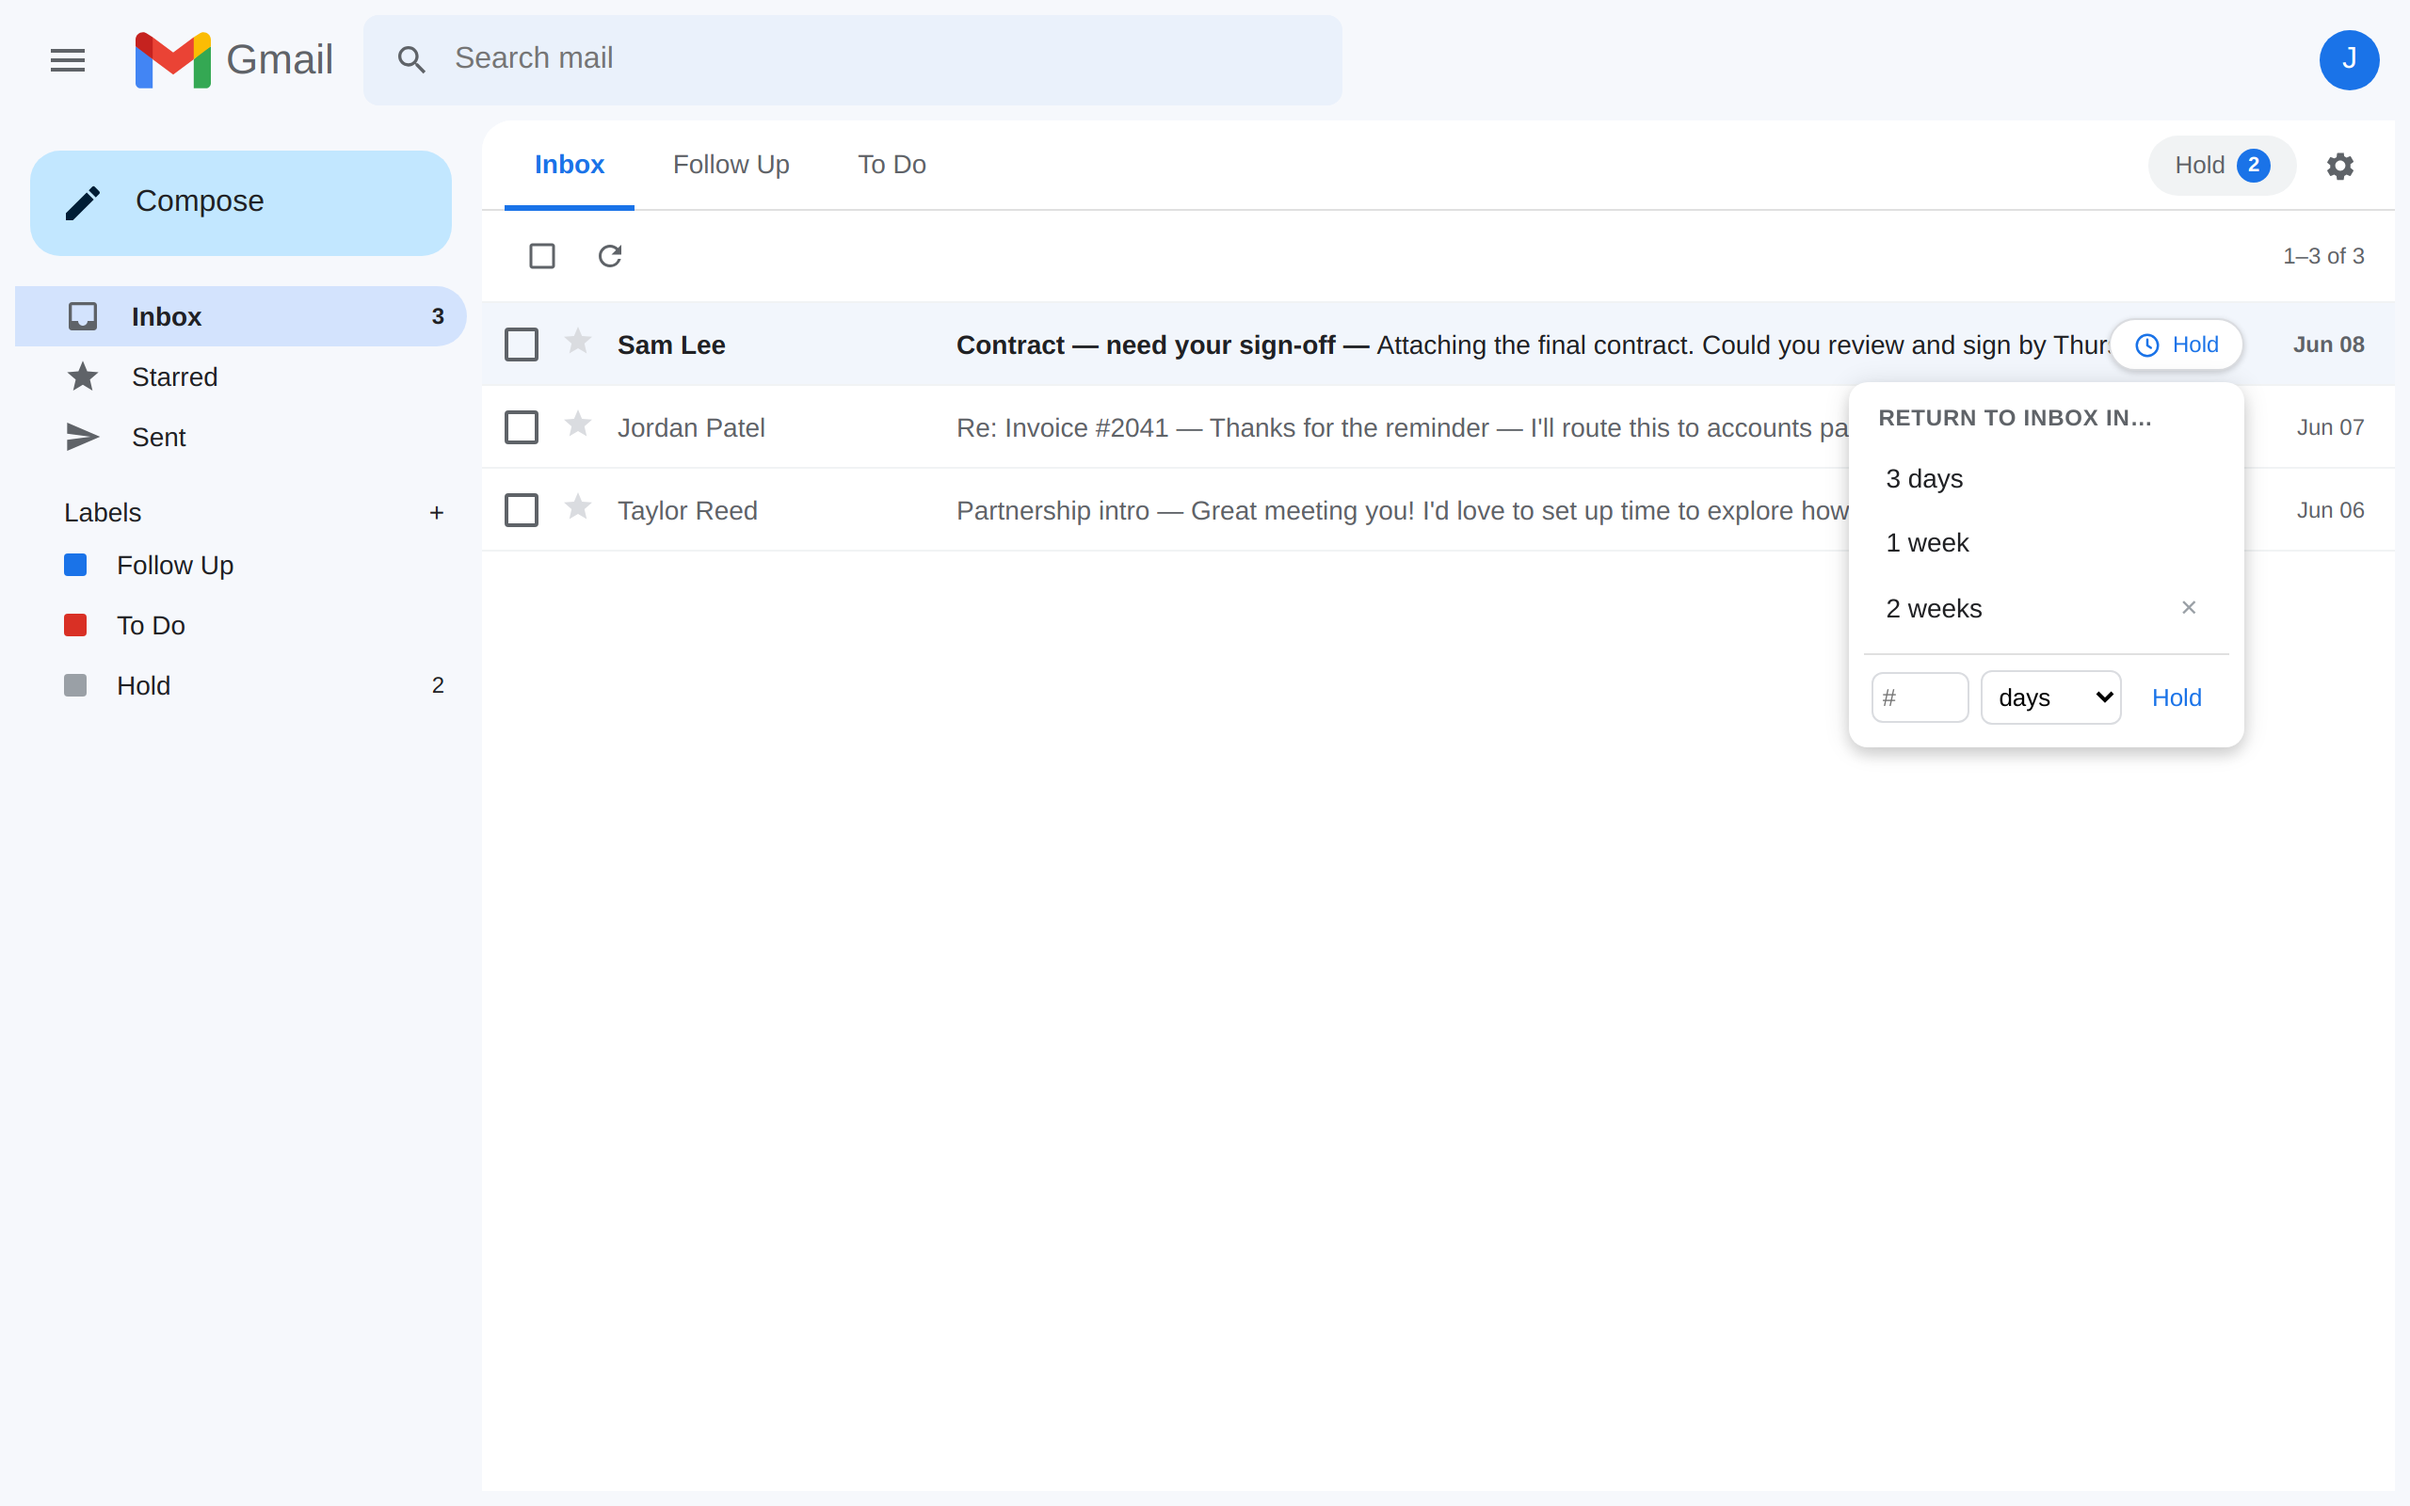
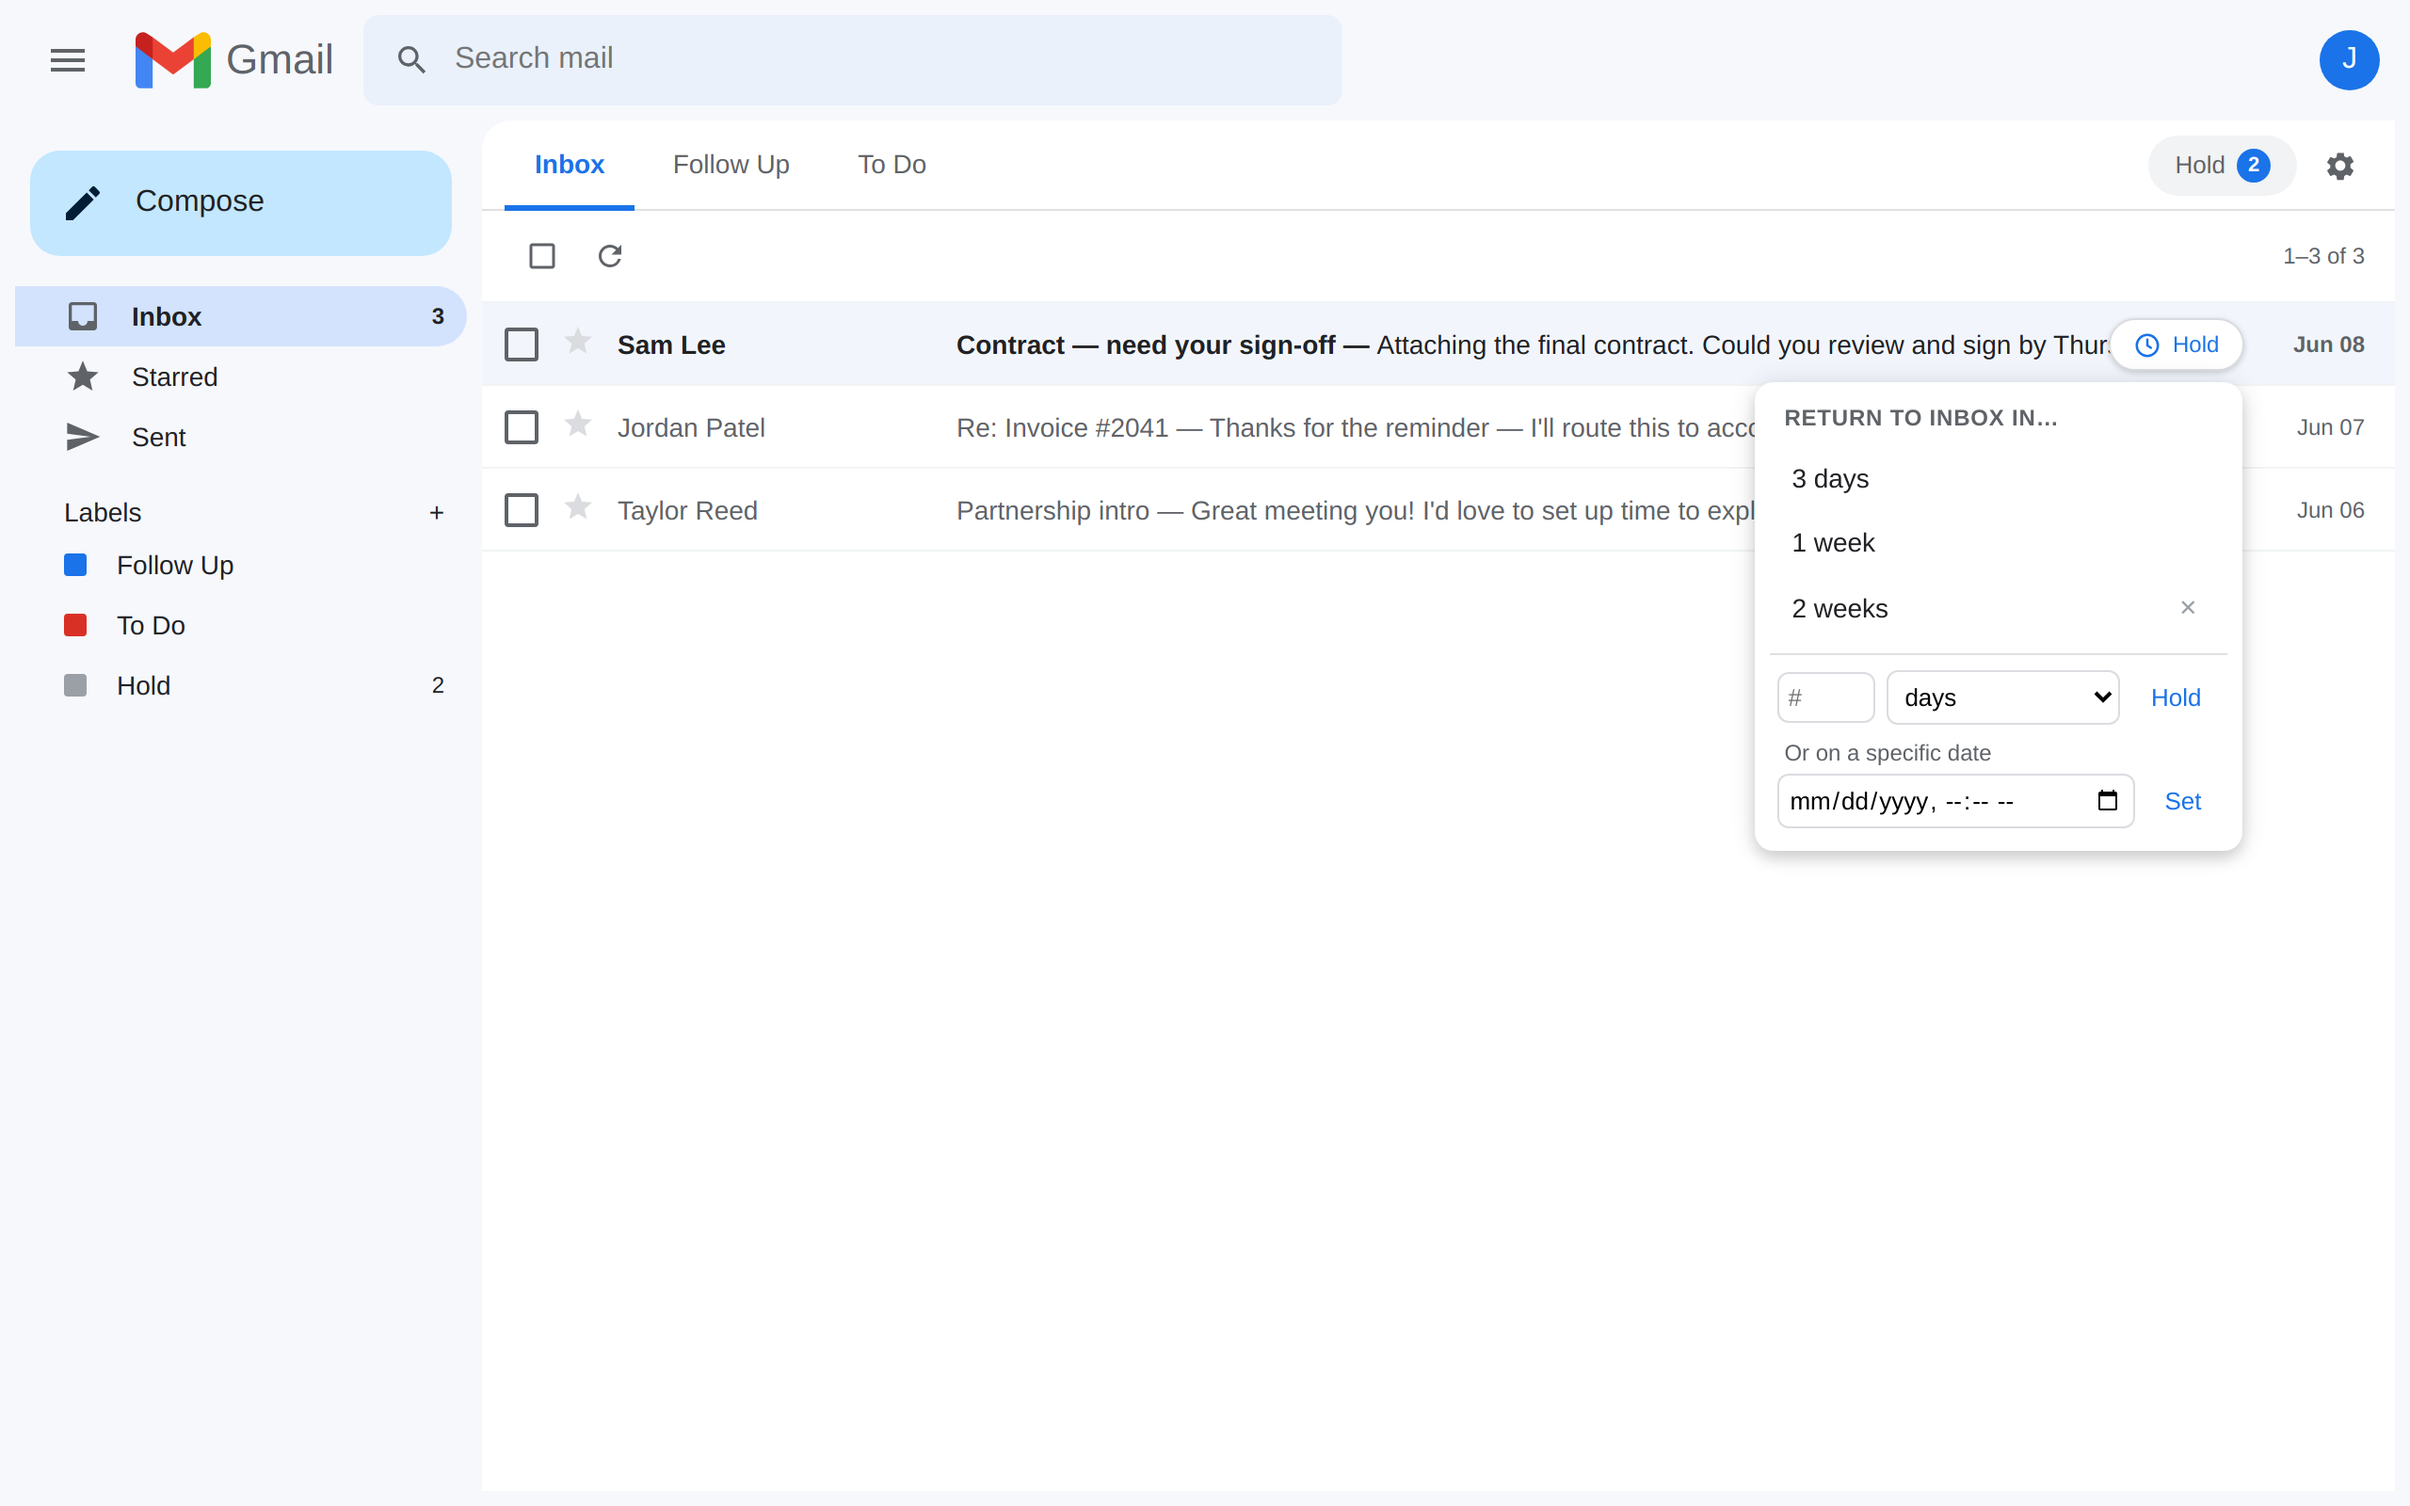
Add a specific date/time option to the Hold picker
Held until an exact calendar moment via a datetime-local input; absolute
dates aren't cached as reusable buttons. Update mockup + preview.

Changed region(s): [[0.7188, 0.4375, 0.9375, 0.5938], [0.7188, 0.25, 0.875, 0.4375]]

diff --git a/mockup.html b/mockup.html
@@ -77,6 +77,9 @@
     .glt-pop-unit { flex: 1; min-width: 0; font-size: 13px; padding: 5px; border: 1px solid #dadce0; border-radius: 6px; background: #fff; }
     .glt-pop-cgo { background: transparent; border: none; cursor: pointer; font-size: 13px; font-weight: 500; color: #1a73e8; padding: 5px 10px; border-radius: 6px; font-family: inherit; }
     .glt-pop-cgo:hover { background: #e8f0fe; }
+    .glt-pop-sub { margin: 4px 8px 2px; font-size: 12px; color: #5f6368; }
+    .glt-pop-date { display: flex; align-items: center; gap: 6px; padding: 2px 4px 4px; }
+    .glt-pop-dt { flex: 1; min-width: 0; font-size: 13px; padding: 5px; border: 1px solid #dadce0; border-radius: 6px; }
 
     /* Toolbar + list */
     .toolbar { display: flex; align-items: center; gap: 4px; padding: 8px 16px; border-bottom: 1px solid #f1f3f4; }
@@ -184,6 +187,11 @@
           <input type="number" min="1" class="glt-pop-amt" id="glt-pop-amt" placeholder="#">
           <select class="glt-pop-unit" id="glt-pop-unit"><option value="hours">hours</option><option value="days" selected>days</option><option value="weeks">weeks</option></select>
           <button class="glt-pop-cgo" id="glt-pop-cgo">Hold</button>
+        </div>
+        <p class="glt-pop-sub">Or on a specific date</p>
+        <div class="glt-pop-date">
+          <input type="datetime-local" class="glt-pop-dt" id="glt-pop-dt">
+          <button class="glt-pop-cgo" id="glt-pop-dgo">Set</button>
         </div>
       </div>
     </div>
@@ -304,6 +312,10 @@
       const label = `${amt} ${amt===1?unit.replace(/s$/,''):unit}`;
       customDurations = [{label,amount:amt,unit}, ...customDurations.filter(x=>x.label!==label)].slice(0,6);
       commitHold(label);
+    });
+    $('glt-pop-dgo').addEventListener('click', () => {
+      const v = $('glt-pop-dt').value; if (!v) return;
+      commitHold(new Date(v).toLocaleString([], {month:'short',day:'numeric',hour:'numeric',minute:'2-digit'}));
     });
 
     function commitHold(whenLabel) {

diff --git a/content.js b/content.js
@@ -405,6 +405,11 @@ function openHoldPicker(anchorEl, target, onAfter) {
       </select>
       <button class="glt-pop-cgo">Hold</button>
     </div>
+    <p class="glt-pop-sub">Or on a specific date</p>
+    <div class="glt-pop-date">
+      <input type="datetime-local" class="glt-pop-dt" aria-label="Return on a specific date and time">
+      <button class="glt-pop-cgo glt-pop-dgo">Set</button>
+    </div>
   `;
 
   document.body.appendChild(pop);
@@ -445,6 +450,21 @@ function openHoldPicker(anchorEl, target, onAfter) {
     const label = `${amount} ${amount === 1 ? singular : unit}`;
     saveCustomDuration({ label, amount, unit });
     commitHold(target, Date.now() + amount * UNIT_MS[unit], onAfter);
+  });
+
+  // Specific calendar date/time — held until that exact moment (not cached).
+  pop.querySelector('.glt-pop-dgo').addEventListener('click', () => {
+    const val = pop.querySelector('.glt-pop-dt').value;
+    if (!val) {
+      flashError(pop, 'Pick a date and time.');
+      return;
+    }
+    const when = new Date(val).getTime();
+    if (!when || when <= Date.now()) {
+      flashError(pop, 'Pick a date/time in the future.');
+      return;
+    }
+    commitHold(target, when, onAfter);
   });
 
   setTimeout(() => {

diff --git a/styles.css b/styles.css
@@ -298,6 +298,29 @@
   background: #fff;
 }
 
+.glt-pop-sub {
+  margin: 4px 8px 2px;
+  font-size: 12px;
+  color: #5f6368;
+}
+
+.glt-pop-date {
+  display: flex;
+  align-items: center;
+  gap: 6px;
+  padding: 2px 4px 4px;
+}
+
+.glt-pop-dt {
+  flex: 1;
+  min-width: 0;
+  font-size: 13px;
+  padding: 5px;
+  border: 1px solid #dadce0;
+  border-radius: 6px;
+  background: #fff;
+}
+
 .glt-pop-cgo {
   all: unset;
   cursor: pointer;
